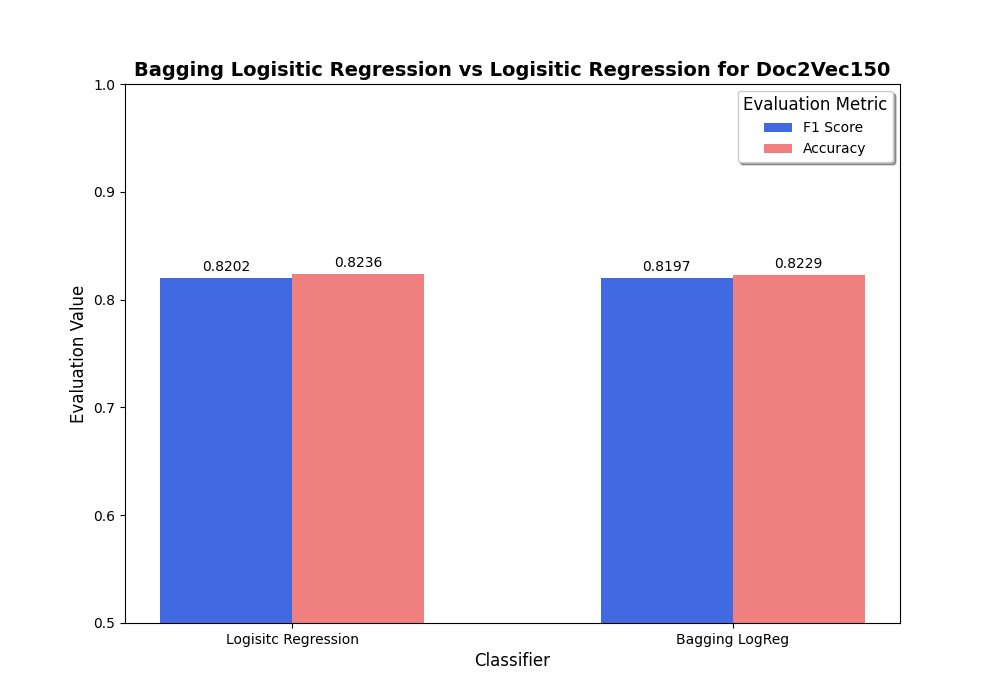
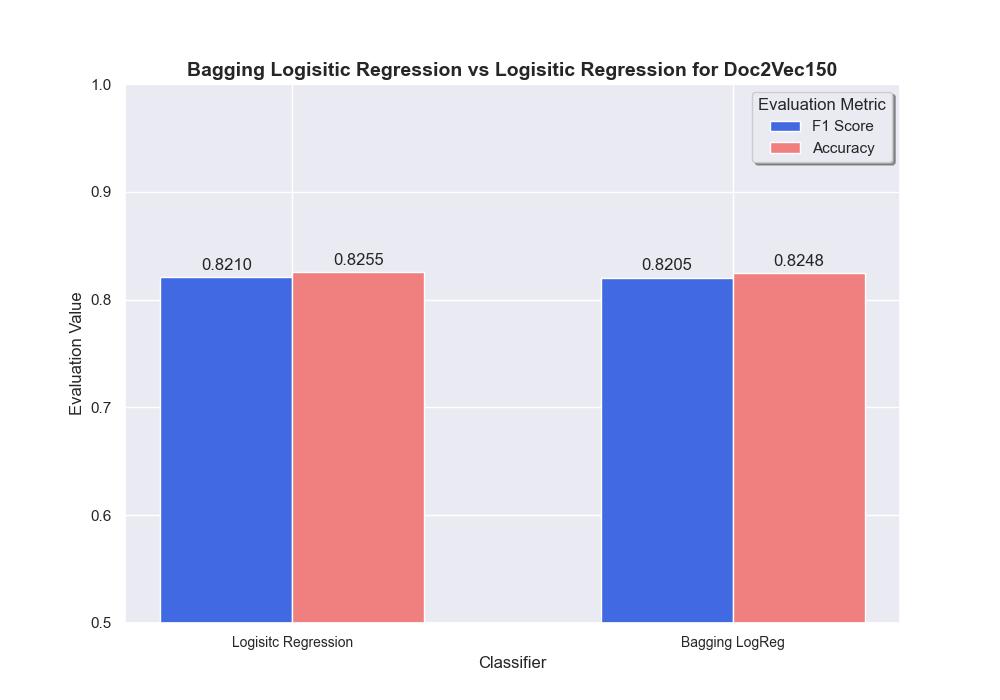
New C hyperparameter for Logistic regression

diff --git a/ass2/LR.py b/ass2/LR.py
@@ -22,6 +22,7 @@ import pandas as pd
 from svm import learning_curve
 from generate_docvecs import get_dot2vec_split
 from generate_docvecs import get_doc2vec_crossval
+from plotting import gridsearch_heatmap
 
 RANDOM_STATE = 7
 CV = 10
@@ -390,10 +391,10 @@ def run_ensemble_compare(dim, n_CV_splits):
         "accuracy": []
     }
 
-    ab_lgr = AdaBoostClassifier(base_estimator=LogisticRegression(max_iter=200), random_state=RANDOM_STATE)
+    ab_lgr = AdaBoostClassifier(base_estimator=LogisticRegression(max_iter=200, C=0.015), random_state=RANDOM_STATE)
     ab_dt = AdaBoostClassifier(base_estimator=DecisionTreeClassifier(max_depth=10), random_state=RANDOM_STATE)
-    lgr = LogisticRegression(max_iter=200, random_state=RANDOM_STATE)
-    bc_lgr = BaggingClassifier(base_estimator=LogisticRegression(max_iter=200), random_state=RANDOM_STATE)
+    lgr = LogisticRegression(max_iter=200, random_state=RANDOM_STATE, C=0.015)
+    bc_lgr = BaggingClassifier(base_estimator=LogisticRegression(max_iter=200, C=0.015), random_state=RANDOM_STATE)
 
     clfs = {"Adaboost LogReg": ab_lgr, "Adaboost Decision Tree": ab_dt, "Logisitc Regression": lgr, "Bagging LogReg": bc_lgr}
 
@@ -450,8 +451,8 @@ def run_bagging(dim, n_CV_splits):
     fscore_bc = []
     fscore_lgr = []
     for ran_state in range(10):
-        lgr = LogisticRegression(max_iter=200, random_state=ran_state)
-        bc_lgr = BaggingClassifier(base_estimator=LogisticRegression(max_iter=200), random_state=ran_state)
+        lgr = LogisticRegression(max_iter=200, random_state=ran_state, C=0.015)
+        bc_lgr = BaggingClassifier(base_estimator=LogisticRegression(max_iter=200, C=0.015), random_state=ran_state)
 
         clfs = {"Logisitc Regression": lgr,
                 "Bagging LogReg": bc_lgr}
@@ -557,6 +558,66 @@ def plot_adaboost():
     plt.legend(('Accuracy', 'F1 Score'), shadow=True, title="Evaluation Metric", title_fontsize=12)
     plt.show()
 
+
+# ---------- GridSearch C Hyperparameter
+def gridsearch_c(param_space, dim, xval_size=5):
+    for i, c in enumerate(param_space):
+
+        print(f"({i}/{len(param_space)}) values searched (C={c}).")
+
+        model = LogisticRegression(max_iter=200, C=c)
+
+        fscore = 0
+        accuracy = 0
+        precision = 0
+        recall = 0
+        xval_num = 0
+        for Xtrain, Xtest, ytrain, ytest in get_doc2vec_crossval(dim, xval_size):
+            xval_num += 1
+            print(f"\t{xval_num}/{xval_size}")
+
+            print("fitting model....")
+            model.fit(Xtrain, ytrain)
+
+            print("predicting....")
+            predictions = model.predict(Xtest)
+
+            print("computing metric....")
+            fscore += metrics.f1_score(ytest, predictions, average='weighted')
+            accuracy += metrics.accuracy_score(ytest, predictions)
+            precision += metrics.precision_score(ytest, predictions, average='weighted')
+            recall += metrics.recall_score(ytest, predictions, average='weighted')
+
+            del Xtrain
+            del Xtest
+            del ytrain
+            del ytest
+
+        with open(f"./results/lgr/gridsearch_{dim}.csv", "a") as fp:
+            fp.write(
+                f"{c}, {fscore / xval_size}, {accuracy / xval_size}, {precision / xval_size}, {recall / xval_size}\n")
+
+
+# ---------- Graph for above
+def plot_gridsearch_c(dim):
+    gridsearch = pd.read_csv(f"./results/lgr/gridsearch_{dim}.csv", sep=', ', names=['C', 'fscore', 'accuracy','precision','recall'])
+    print(gridsearch.head(10))
+    plt.rcParams['figure.figsize'] = [10, 7]
+    plt.xscale('log')
+    plt.ylim(0.75, 0.9)
+
+    plt.plot(gridsearch['C'], gridsearch['fscore'], 'go', linestyle='-', label="F1 Score")
+    plt.plot(gridsearch['C'], gridsearch['accuracy'], 'yo', linestyle='-', label="Accuracy")
+
+
+    plt.legend(loc='upper left', shadow=True)
+    plt.xlabel("C Hyperparameter", size=12)
+    plt.ylabel("Evaluation Value", size=12)
+    plt.title("Logistic Regression for Doc2Vec150 vs C Hyperparameter",
+              weight="bold", size=14)
+    plt.show()
+
+
 if __name__ == "__main__":
     # Meta adaboosting data
     train_set = pd.read_csv(r"./datasets/review_meta_train.csv")
@@ -606,8 +667,12 @@ if __name__ == "__main__":
     # run_ensemble_compare(150, 5)
     # plot_ensemble_compare()
 
-    # run_bagging(150, 5)
-    # plot_bagging()
+    run_bagging(150, 5)
+    plot_bagging()
 
     # run_adaboost(150, 5)
     # plot_adaboost()
+
+    # param_space = [0.0001, 0.001, 0.01, 0.015, 0.02, 0.05, 0.08, 0.1, 1, 10]
+    # gridsearch_c(param_space, 150, xval_size=5)
+    # plot_gridsearch_c(150)

diff --git a/ass2/svm.py b/ass2/svm.py
@@ -282,10 +282,10 @@ def gridsearch_c_gamma(param_space, dim, kernel, xval_size=5):
             fp.write(f"{c}, {gamma}, {fscore / xval_size}, {accuracy / xval_size}, {precision / xval_size}, {recall / xval_size}\n")
 
 
-dim = 125
-kernel = 'rbf'
-param_space = list(itertools.product([1.75, 2, 2.25], [0.3, 0.4, 0.5, 0.6, 0.7, 0.8, 0.9, 1, 1.1, 1.2]))
-gridsearch_c_gamma(param_space, dim, kernel)
+# dim = 125
+# kernel = 'rbf'
+# param_space = list(itertools.product([1.75, 2, 2.25], [0.3, 0.4, 0.5, 0.6, 0.7, 0.8, 0.9, 1, 1.1, 1.2]))
+# gridsearch_c_gamma(param_space, dim, kernel)
 
 """
 param_space = list(itertools.product([0.0005, 0.001, 0.0015, 0.002], [0.95]))

diff --git a/ass2/stacking.py b/ass2/stacking.py
@@ -1,0 +1,1 @@
+from sklearn.ensemble import StackingClassifier
